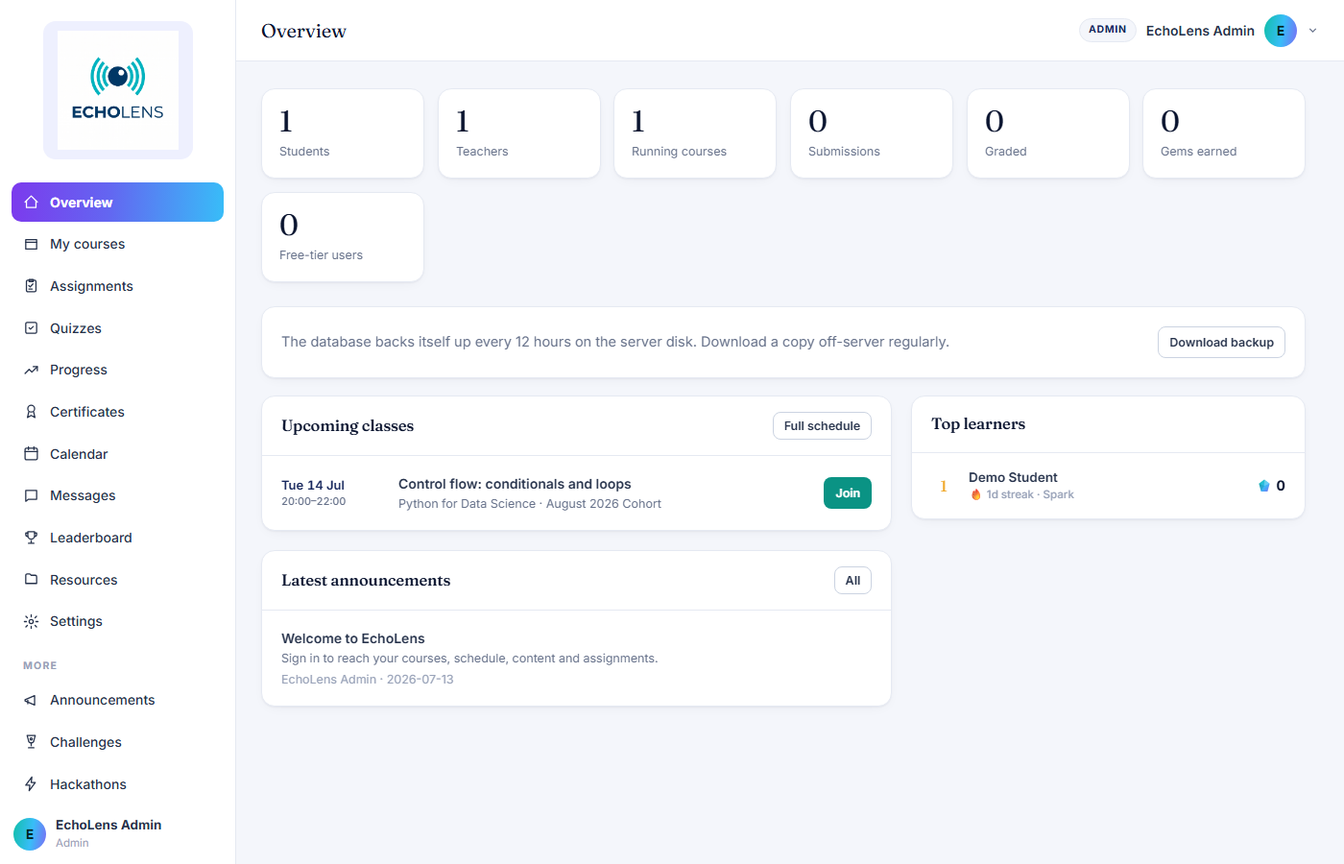
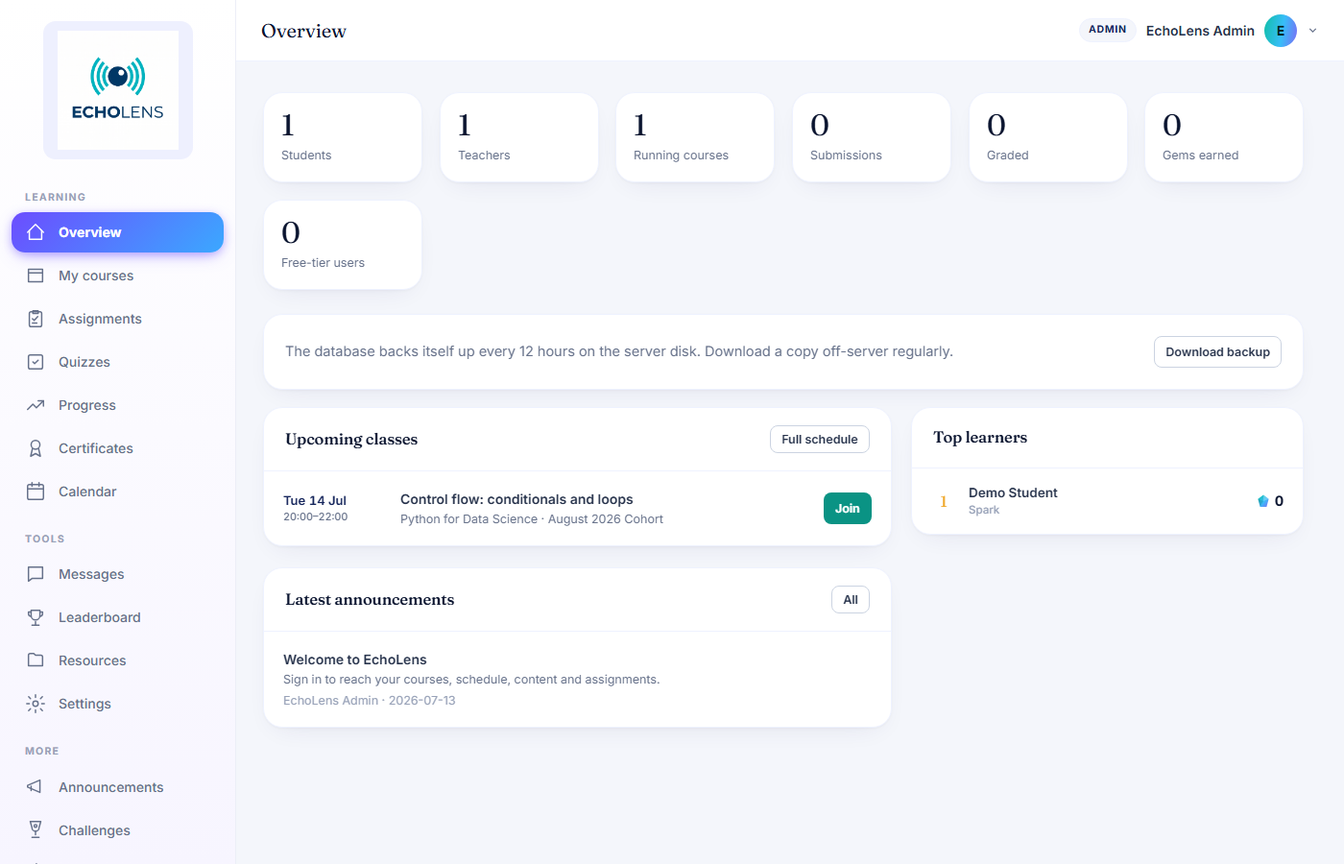
Update LMS with latest changes

diff --git a/public/css/styles.css b/public/css/styles.css
@@ -10,7 +10,7 @@
   --navy:#16265C;
   --canvas:#F4F6FB;         /* app background */
   --card:#FFFFFF;
-  --line:#E5E9F2;
+  --line:#EEF2FF;
   --line-strong:#CBD3E1;
   --text:#26324B;
   --muted:#66718A;
@@ -27,13 +27,14 @@
   --violet-soft:#EEF0FE;    /* soft periwinkle wash */
   --primary:#6D5DF6;        /* purple mixed with light blue (periwinkle) */
   --primary-deep:#5842D6;
-  --primary-grad:linear-gradient(94deg,#7C3AED 0%,#6366F1 46%,#38BDF8 100%);
-  --primary-shadow:99,102,241;  /* rgba tint for primary shadows */
+  --primary-grad:linear-gradient(135deg,#6C4DFF 0%,#3BA8FF 100%);
+  --primary-shadow:108,77,255;  /* rgba tint for primary shadows */
   --gold:#F0A82A;
   --danger:#D9534F;
   --ok:#1FA36B;
 
   --gem-grad:linear-gradient(100deg,#0FBFA8 0%,#38BDF8 55%,#7C6CF5 100%);
+  --stage-grad:linear-gradient(90deg,#20D3FF 0%,#6C4DFF 100%);   /* v14: stage/progress bars */
 
   /* stage colors */
   --st-spark:#F59E0B; --st-glow:#14B8A6; --st-beam:#38BDF8;
@@ -43,9 +44,11 @@
   --font-body:'Inter',system-ui,sans-serif;
   --font-mono:ui-monospace,'SF Mono',Menlo,Consolas,monospace;
 
-  --radius:14px;
+  --radius:20px;
   --shadow-sm:0 1px 2px rgba(13,27,62,.05),0 4px 14px -6px rgba(13,27,62,.08);
   --shadow-md:0 6px 24px -8px rgba(13,27,62,.16);
+  --shadow-card:0 1px 3px rgba(23,26,50,.04),0 10px 28px -14px rgba(46,42,110,.12);
+  --shadow-card-hover:0 4px 10px rgba(23,26,50,.05),0 18px 40px -16px rgba(46,42,110,.20);
 }
 
 *{box-sizing:border-box;margin:0;padding:0}
@@ -104,18 +107,19 @@ img{max-width:100%}
 
 /* ------------------------------ app shell ------------------------------ */
 .app{display:grid;grid-template-columns:246px 1fr;min-height:100vh}
-.sidebar{background:var(--card);color:var(--text);display:flex;flex-direction:column;position:sticky;top:0;height:100vh;border-right:1px solid var(--line)}
+.sidebar{background:linear-gradient(180deg,#FFFFFF 0%,#F7F5FF 100%);color:var(--text);display:flex;flex-direction:column;position:sticky;top:0;height:100vh;border-right:1px solid #ECEEF7}
 .sidebar .brand{display:flex;justify-content:center;padding:22px 16px 18px}
 .logo-pill{background:var(--violet-soft);border-radius:13px;padding:10px 15px;display:inline-flex;box-shadow:none}
 .logo-pill img{width:126px;display:block}
-.sidebar nav{flex:1;padding:6px 12px;overflow-y:auto}
-.nav-group{font-size:10.5px;font-weight:700;letter-spacing:.12em;text-transform:uppercase;color:var(--muted-2);padding:16px 12px 6px}
-a.nav-item{display:flex;align-items:center;gap:11px;color:var(--text);padding:10px 12px;border-radius:10px;font-size:14px;font-weight:500;cursor:pointer;margin-bottom:2px;transition:.15s}
-a.nav-item:hover{background:var(--violet-soft);color:var(--ink)}
-a.nav-item.active{background:var(--primary-grad);color:#fff;font-weight:650}
+.sidebar nav{flex:1;padding:6px 12px 18px;overflow-y:auto}
+.nav-group{font-size:10.5px;font-weight:700;letter-spacing:.12em;text-transform:uppercase;color:var(--muted-2);padding:18px 14px 7px}
+.nav-group:first-child{padding-top:8px}
+a.nav-item{display:flex;align-items:center;gap:13px;color:var(--muted);padding:10px 14px;border-radius:10px;font-size:14px;font-weight:500;cursor:pointer;margin-bottom:3px;transition:background .18s ease,color .18s ease,box-shadow .18s ease}
+a.nav-item:hover{background:var(--violet-soft);color:var(--primary-deep)}
+a.nav-item.active{background:var(--primary-grad);color:#fff;font-weight:650;border-radius:14px;
+  box-shadow:0 6px 18px -6px rgba(108,77,255,.55),0 2px 8px rgba(108,77,255,.28)}
 a.nav-item.active .ic{stroke:#fff}
-.nav-item .ic{width:17px;height:17px;flex:none;stroke:currentColor;fill:none;stroke-width:1.8;stroke-linecap:round;stroke-linejoin:round}
-.side-foot{padding:14px;border-top:1px solid var(--line);font-size:12px;color:var(--muted-2)}
+.nav-item .ic{width:22px;height:22px;flex:none;stroke:currentColor;fill:none;stroke-width:1.6;stroke-linecap:round;stroke-linejoin:round}
 
 .main{display:flex;flex-direction:column;min-width:0}
 .topbar{height:64px;background:#fff;border-bottom:1px solid var(--line);display:flex;align-items:center;justify-content:space-between;padding:0 26px;position:sticky;top:0;z-index:20}
@@ -124,21 +128,26 @@ a.nav-item.active .ic{stroke:#fff}
 .avatar{width:34px;height:34px;border-radius:50%;background:var(--gem-grad);color:#04231F;display:flex;align-items:center;justify-content:center;font-weight:700;font-size:14px}
 .role-pill{font-size:10.5px;font-weight:700;letter-spacing:.07em;text-transform:uppercase;color:var(--navy);background:var(--canvas);border:1px solid var(--line);padding:3px 9px;border-radius:999px}
 .menu-toggle{display:none;border:1px solid var(--line-strong);background:#fff;border-radius:9px;padding:7px 11px;cursor:pointer;font-weight:600;font-size:13px}
-.content{padding:28px 26px 60px;max-width:1140px;width:100%}
+.content{padding:32px 28px 60px;max-width:1140px;width:100%}
 .view{display:none}
 .view.active{display:block;animation:rise .25s ease}
 @keyframes rise{from{opacity:0;transform:translateY(6px)}to{opacity:1;transform:none}}
 
 /* -------------------------------- cards -------------------------------- */
-.card{background:var(--card);border:1px solid var(--line);border-radius:var(--radius);box-shadow:var(--shadow-sm);margin-bottom:20px;overflow:hidden}
-.card-head{padding:16px 20px;border-bottom:1px solid var(--line);display:flex;align-items:center;justify-content:space-between;gap:12px}
+.card{background:var(--card);border:1px solid var(--line);border-radius:var(--radius);box-shadow:var(--shadow-card);margin-bottom:22px;overflow:hidden;transition:transform .2s ease,box-shadow .2s ease}
+.card:hover{transform:translateY(-2px);box-shadow:var(--shadow-card-hover)}
+.card-head{padding:18px 22px;border-bottom:1px solid var(--line);display:flex;align-items:center;justify-content:space-between;gap:12px}
 .card-head h3{font-size:16.5px}
-.card-body{padding:20px}
+.card-body{padding:22px}
 .card-body.tight{padding:4px 0}
 .empty{padding:26px 20px;color:var(--muted);font-size:13.5px;text-align:center}
+.empty-illustration{width:100%;padding:30px 20px;text-align:center}
+.empty-illustration svg{margin:0 auto}
+.empty-illustration .empty-title{font-weight:650;color:var(--ink);margin-top:12px;font-size:14px}
+.empty-illustration .empty-sub{color:var(--muted);font-size:12.5px;margin-top:4px}
 
-.stat-grid{display:grid;grid-template-columns:repeat(auto-fit,minmax(160px,1fr));gap:14px;margin-bottom:24px}
-.stat-card{background:#fff;border:1px solid var(--line);border-radius:var(--radius);padding:18px;box-shadow:var(--shadow-sm)}
+.stat-grid{display:grid;grid-template-columns:repeat(auto-fit,minmax(160px,1fr));gap:18px;margin-bottom:24px}
+.stat-card{background:#fff;border:1px solid var(--line);border-radius:var(--radius);padding:18px;box-shadow:var(--shadow-card);transition:transform .2s ease,box-shadow .2s ease}
 .stat-card .n{font-family:var(--font-display);font-size:31px;color:var(--ink);line-height:1;font-variant-numeric:tabular-nums}
 .stat-card .l{font-size:12.5px;color:var(--muted);margin-top:6px}
 
@@ -167,22 +176,24 @@ table.tbl{width:100%;border-collapse:collapse;font-size:13.5px}
 .stage-prism{background:var(--st-prism)}.stage-aurora{background:var(--st-aurora)}.stage-nova{background:var(--st-nova)}
 
 /* signature: the Progress Prism */
-.prism-card{position:relative;border-radius:18px;overflow:hidden;color:#EAF2FF;margin-bottom:24px;
+.prism-card{position:relative;border-radius:20px;overflow:hidden;color:#EAF2FF;margin-bottom:22px;
   background:radial-gradient(700px 300px at 85% -30%,rgba(124,108,245,.35),transparent 60%),
              radial-gradient(500px 260px at -10% 120%,rgba(15,191,168,.3),transparent 55%),
              linear-gradient(120deg,var(--ink) 0%,var(--ink-2) 100%);
   box-shadow:var(--shadow-md)}
 .prism-card::after{content:'';position:absolute;inset:auto 0 0 0;height:3px;background:var(--gem-grad)}
 .prism-inner{display:flex;align-items:center;gap:24px;padding:26px 28px;flex-wrap:wrap}
-.prism-gem{width:84px;height:84px;flex:none;filter:drop-shadow(0 10px 24px rgba(15,191,168,.35))}
+.prism-gem{width:84px;height:84px;flex:none;
+  filter:drop-shadow(0 0 22px rgba(32,211,255,.45)) drop-shadow(0 0 42px rgba(108,77,255,.4)) drop-shadow(0 10px 20px rgba(0,0,0,.25))}
 .prism-main{flex:1;min-width:220px}
 .prism-eyebrow{font-size:11px;font-weight:700;letter-spacing:.14em;text-transform:uppercase;color:#8FA3CC}
 .prism-stage{font-family:var(--font-display);font-size:30px;color:#fff;line-height:1.15;margin:2px 0 4px}
 .prism-sub{font-size:13px;color:#AAB9DB}
 .prism-bar{height:9px;border-radius:999px;background:rgba(255,255,255,.12);margin-top:14px;overflow:hidden}
-.prism-fill{height:100%;border-radius:999px;background:var(--gem-grad);width:0;transition:width .9s cubic-bezier(.2,.7,.2,1)}
+.prism-fill{height:100%;border-radius:999px;background:var(--stage-grad);width:0;transition:width 1.1s cubic-bezier(.2,.7,.2,1)}
 .prism-side{display:flex;gap:14px;flex-wrap:wrap}
-.prism-stat{background:rgba(255,255,255,.07);border:1px solid rgba(255,255,255,.1);border-radius:13px;padding:12px 16px;min-width:96px;text-align:center}
+.prism-stat{background:rgba(255,255,255,.1);border:1px solid rgba(255,255,255,.16);border-radius:14px;padding:12px 16px;min-width:96px;text-align:center;
+  backdrop-filter:blur(10px) saturate(140%);-webkit-backdrop-filter:blur(10px) saturate(140%);box-shadow:inset 0 1px 0 rgba(255,255,255,.12)}
 .prism-stat .n{font-family:var(--font-display);font-size:23px;color:#fff;font-variant-numeric:tabular-nums}
 .prism-stat .l{font-size:11px;color:#94A7CE;letter-spacing:.06em;text-transform:uppercase;margin-top:2px}
 
@@ -214,9 +225,9 @@ table.tbl{width:100%;border-collapse:collapse;font-size:13.5px}
 .lb-name small{display:block;font-weight:500;color:var(--muted-2);font-size:11.5px}
 
 /* ------------------------------ course cards ------------------------------ */
-.course-grid{display:grid;grid-template-columns:repeat(auto-fill,minmax(272px,1fr));gap:16px}
-.course-card{background:#fff;border:1px solid var(--line);border-radius:var(--radius);padding:0;overflow:hidden;cursor:pointer;transition:.18s;box-shadow:var(--shadow-sm)}
-.course-card:hover{transform:translateY(-3px);box-shadow:var(--shadow-md);border-color:var(--line-strong)}
+.course-grid{display:grid;grid-template-columns:repeat(auto-fill,minmax(272px,1fr));gap:20px}
+.course-card{background:#fff;border:1px solid var(--line);border-radius:var(--radius);padding:0;overflow:hidden;cursor:pointer;transition:transform .2s ease,box-shadow .2s ease;box-shadow:var(--shadow-card)}
+.course-card:hover{transform:translateY(-2px);box-shadow:var(--shadow-card-hover);border-color:var(--line-strong)}
 .course-band{height:5px;background:var(--gem-grad)}
 .course-card .cc-body{padding:17px 18px}
 .course-card h4{font-size:16px;margin:5px 0 3px}
@@ -300,7 +311,7 @@ table.tbl{width:100%;border-collapse:collapse;font-size:13.5px}
 .card,.stat-card,.course-card,.prism-card{transform-style:preserve-3d;will-change:transform}
 .tilt{transition:transform .18s ease,box-shadow .18s ease}
 .tilt:hover{box-shadow:0 22px 44px -18px rgba(13,27,62,.28)}
-.stat-card:hover{transform:translateY(-3px) translateZ(8px)}
+.stat-card:hover{transform:translateY(-2px) translateZ(8px);box-shadow:var(--shadow-card-hover)}
 @keyframes gemSpin3d{0%{transform:rotateY(0) rotateZ(45deg)}100%{transform:rotateY(360deg) rotateZ(45deg)}}
 
 /* --- quest hero: track title banner --- */
@@ -748,8 +759,13 @@ input[type=file]::file-selector-button:hover{background:var(--canvas)}
 .filt-pill.active{border-color:var(--primary);color:var(--primary);background:var(--violet-soft)}
 .search-box{position:relative;flex:1;min-width:200px}
 .search-box svg{position:absolute;left:13px;top:50%;transform:translateY(-50%);width:15px;height:15px;color:var(--muted-2);pointer-events:none}
-.search-box input{width:100%;padding:9px 14px 9px 36px;border:1.5px solid var(--line);border-radius:10px;font:500 13.5px var(--font-body);background:#fff}
+.search-box input{width:100%;padding:9px 14px 9px 36px;border:1.5px solid var(--line);border-radius:10px;font:500 13.5px var(--font-body);background:#fff;transition:border-color .18s ease,box-shadow .18s ease}
 .search-box input:focus{outline:none;border-color:var(--primary)}
+/* v14: topbar quick-search gets the premium 46px/14px treatment specifically -
+   other filter bars sitewide keep their compact size. */
+#topSearchWrap input{height:46px;border-radius:14px;padding-left:40px;font-size:14px}
+#topSearchWrap svg{left:15px;width:16px;height:16px}
+#topSearchWrap input:focus{border-color:var(--primary);box-shadow:0 0 0 4px rgba(108,77,255,.13)}
 
 /* --- open-site course cards (icon art, tier, price, enrol) --- */
 .oc-grid{display:grid;grid-template-columns:repeat(auto-fill,minmax(232px,1fr));gap:16px}
@@ -1218,21 +1234,13 @@ input[type=file]::file-selector-button:hover{background:var(--canvas)}
 .cl-eyebrow{font-size:11px;font-weight:700;letter-spacing:.08em;text-transform:uppercase;color:var(--primary)}
 .cl-title{font-family:var(--font-display);font-size:19px;color:var(--ink);margin:2px 0 8px}
 .cl-bar{height:8px;border-radius:999px;background:var(--canvas);overflow:hidden}
-.cl-fill{height:100%;border-radius:999px;background:var(--primary-grad);width:0;transition:width .9s cubic-bezier(.2,.7,.2,1)}
+.cl-fill{height:100%;border-radius:999px;background:var(--stage-grad);width:0;transition:width 1s cubic-bezier(.2,.7,.2,1)}
 .cl-pct{font-size:12px;color:var(--muted);margin-top:6px}
 .cl-next{background:var(--canvas);border-radius:13px;padding:12px 16px;min-width:170px}
 .cl-next .l{font-size:11px;color:var(--muted-2);text-transform:uppercase;letter-spacing:.05em;margin-bottom:3px}
 .cl-next .t{font-size:13.5px;font-weight:600;color:var(--text);margin-bottom:8px}
 
 .list-row .mini-bar{height:5px;border-radius:999px;background:var(--line);overflow:hidden;margin-top:6px;width:100%}
-.list-row .mini-fill{height:100%;border-radius:999px;background:var(--primary-grad)}
+.list-row .mini-fill{height:100%;border-radius:999px;background:var(--stage-grad);width:0;transition:width 1s cubic-bezier(.2,.7,.2,1)}
 
-.promo-card{background:var(--violet-soft);border:1px solid var(--line);border-radius:14px;padding:16px;margin:10px 12px;text-align:center}
-.promo-card .pc-icon{width:38px;height:38px;margin:0 auto 8px}
-.promo-card h4{font-size:14px;color:var(--ink);margin-bottom:4px}
-.promo-card p{font-size:12px;color:var(--muted);margin-bottom:12px;line-height:1.45}
-
-.side-user{display:flex;align-items:center;gap:10px;padding:12px 14px}
-.side-user .n{font-size:13.5px;font-weight:650;color:var(--text)}
-.side-user .r{font-size:11.5px;color:var(--muted-2)}
 .disc-body{font-size:13.5px;color:var(--text);line-height:1.55;white-space:pre-wrap;word-break:break-word}

diff --git a/public/js/dashboard.js b/public/js/dashboard.js
@@ -114,12 +114,7 @@ async function logout() { try { await api('/api/auth/logout', { method: 'POST' }
   } catch { return; }
   $('userName').textContent = ME.name;
   $('rolePill').textContent = roleLabel(ME.role);
-  $('sideUserName').textContent = ME.name;
-  $('sideUserRole').textContent = roleLabel(ME.role);
   drawAvatar();
-  const sideAv = $('sideAvatar');
-  if (ME.avatar) sideAv.innerHTML = `<img src="${esc(ME.avatar)}" alt="">`;
-  else sideAv.textContent = (ME.name || 'E').trim()[0].toUpperCase();
   if (ME.role === 'admin') document.querySelectorAll('.admin-only').forEach((el) => (el.style.display = ''));
   if (['admin', 'coordinator'].includes(ME.role)) document.querySelectorAll('.staff-only').forEach((el) => (el.style.display = ''));
   if (ME.ai_enabled) document.querySelectorAll('.teacher-only').forEach((el) => (el.style.display = ''));
@@ -262,7 +257,7 @@ async function renderOverview() {
     <div style="display:grid;grid-template-columns:1.6fr 1fr;gap:20px;align-items:start" class="ovr-grid">
       <div>
         <div class="card"><div class="card-head"><h3>Upcoming classes</h3><button class="btn btn-ghost btn-sm" onclick="show('schedule')">Full schedule</button></div>
-          <div class="card-body tight">${d.upcoming.length ? d.upcoming.map(sessionRow).join('') : '<div class="empty">No upcoming classes scheduled yet.</div>'}</div></div>
+          <div class="card-body tight">${d.upcoming.length ? d.upcoming.map(sessionRow).join('') : emptyScheduleHTML()}</div></div>
         <div class="card"><div class="card-head"><h3>Latest announcements</h3><button class="btn btn-ghost btn-sm" onclick="show('announcements')">All</button></div>
           <div class="card-body tight">${d.announcements.length ? d.announcements.map(annRow).join('') : '<div class="empty">Nothing yet.</div>'}</div></div>
       </div>
@@ -273,6 +268,21 @@ async function renderOverview() {
     </div>
     <style>@media (max-width:900px){.ovr-grid{grid-template-columns:1fr !important}}</style>`;
   requestAnimationFrame(() => { const f = el.querySelector('.prism-fill'); if (f) f.style.width = f.dataset.w + '%'; });
+}
+
+/* v14: a friendly illustration for empty schedule areas, instead of a bare line of text. */
+function emptyScheduleHTML(sub) {
+  return `<div class="empty-illustration">
+    <svg width="72" height="72" viewBox="0 0 72 72" aria-hidden="true">
+      <circle cx="36" cy="36" r="36" fill="var(--violet-soft)"/>
+      <rect x="20" y="24" width="32" height="28" rx="4" fill="none" stroke="var(--primary)" stroke-width="2.2"/>
+      <path d="M20 32h32" stroke="var(--primary)" stroke-width="2.2"/>
+      <path d="M27 20v8M45 20v8" stroke="var(--primary)" stroke-width="2.2" stroke-linecap="round"/>
+      <path d="M29 40l5 5 9-9" fill="none" stroke="var(--primary)" stroke-width="2.2" stroke-linecap="round" stroke-linejoin="round"/>
+    </svg>
+    <div class="empty-title">No upcoming activities</div>
+    <div class="empty-sub">${esc(sub || "You're all caught up - check back soon.")}</div>
+  </div>`;
 }
 
 /* -------------------------- student overview (v13) -------------------------- */
@@ -311,7 +321,7 @@ async function renderStudentOverview(el, d) {
           <div class="cl-main">
             <div class="cl-eyebrow">Continue learning</div>
             <div class="cl-title">${esc(cont.title || cont.name)}</div>
-            <div class="cl-bar"><div class="cl-fill" style="width:${cont.progress_pct}%"></div></div>
+            <div class="cl-bar"><div class="cl-fill" data-w="${cont.progress_pct}"></div></div>
             <div class="cl-pct">${cont.progress_pct}% complete</div>
           </div>
           <div class="cl-next">
@@ -329,7 +339,7 @@ async function renderStudentOverview(el, d) {
                 <div class="t" style="font-weight:600;margin:4px 0">${esc(it.title)}</div>
                 <div class="s" style="color:var(--muted)">${esc(it.sub)}</div>
                 <div class="s" style="color:var(--muted-2);margin-top:6px">${fmtDate(it.date)}</div>
-              </div>`).join('') : '<div class="empty">Nothing scheduled right now.</div>'}
+              </div>`).join('') : emptyScheduleHTML('No classes, quizzes, or assignments due soon.')}
           </div></div>
 
         <div class="card"><div class="card-head"><h3>My courses</h3><button class="btn btn-ghost btn-sm" onclick="show('courses')">View all</button></div>
@@ -338,7 +348,7 @@ async function renderStudentOverview(el, d) {
               <div class="grow">
                 <div class="t">${esc(c.title || c.name)}</div>
                 <div class="s" style="color:var(--muted)">${c.lesson_count} lesson${c.lesson_count === 1 ? '' : 's'}</div>
-                <div class="mini-bar"><div class="mini-fill" style="width:${c.progress_pct}%"></div></div>
+                <div class="mini-bar"><div class="mini-fill" data-w="${c.progress_pct}"></div></div>
               </div>
               <div style="font-weight:700;color:var(--ink);min-width:36px;text-align:right">${c.progress_pct}%</div>
               <button class="btn btn-ghost btn-sm" onclick="openCourse(${c.id})">Continue</button>
@@ -383,7 +393,7 @@ async function renderStudentOverview(el, d) {
       </div>
     </div>
     <style>@media (max-width:900px){.ovr-grid{grid-template-columns:1fr !important}}</style>`;
-  requestAnimationFrame(() => { const f = el.querySelector('.prism-fill'); if (f) f.style.width = f.dataset.w + '%'; });
+  requestAnimationFrame(() => { el.querySelectorAll('.prism-fill,.mini-fill,.cl-fill').forEach((f) => (f.style.width = f.dataset.w + '%')); });
   if (featured && featured.due_date) startDailyChallengeCountdown(featured.due_date);
 }
 function startDailyChallengeCountdown(dueDate) {
@@ -834,7 +844,7 @@ async function renderSchedule() {
   el.innerHTML = '<div class="empty">Loading&hellip;</div>';
   const d = await api('/api/overview');
   el.innerHTML = `<div class="card"><div class="card-head"><h3>Upcoming classes</h3></div>
-    <div class="card-body tight">${d.upcoming.length ? d.upcoming.map(sessionRow).join('') : '<div class="empty">No upcoming classes. Enjoy the calm.</div>'}</div></div>`;
+    <div class="card-body tight">${d.upcoming.length ? d.upcoming.map(sessionRow).join('') : emptyScheduleHTML()}</div></div>`;
 }
 
 /* ============================= LEADERBOARD ============================= */
@@ -1015,7 +1025,7 @@ async function renderProgress() {
       <div class="grow">
         <div class="t">${esc(c.title || c.name)}</div>
         <div class="s">${c.next_level ? `Next: Level ${c.next_level.no} &middot; ${esc(c.next_level.title)}` : (c.progress_pct >= 100 ? 'Track completed' : 'Not started yet')}</div>
-        <div class="mini-bar"><div class="mini-fill" style="width:${c.progress_pct}%"></div></div>
+        <div class="mini-bar"><div class="mini-fill" data-w="${c.progress_pct}"></div></div>
       </div>
       <div style="font-weight:700;color:var(--ink);min-width:40px;text-align:right">${c.progress_pct}%</div>
     </div>`).join('') || '<div class="empty">Enroll in a course to start tracking progress.</div>';
@@ -1027,7 +1037,7 @@ async function renderProgress() {
     ${journeyRail(g)}
     <div class="card"><div class="card-head"><h3>Progress by course</h3></div><div class="card-body tight">${perCourse}</div></div>
     ${badgesCard(g)}`;
-  requestAnimationFrame(() => { el.querySelectorAll('.prism-fill').forEach((f) => (f.style.width = f.dataset.w + '%')); });
+  requestAnimationFrame(() => { el.querySelectorAll('.prism-fill,.mini-fill,.cl-fill').forEach((f) => (f.style.width = f.dataset.w + '%')); });
 }
 function openProfileForm() {
   const p = ME.profile || {};

diff --git a/public/dashboard.html b/public/dashboard.html
@@ -8,7 +8,7 @@
 <link rel="preconnect" href="https://fonts.googleapis.com">
 <link rel="preconnect" href="https://fonts.gstatic.com" crossorigin>
 <link href="https://fonts.googleapis.com/css2?family=Fraunces:opsz,wght@9..144,400..650&family=Inter:wght@400;500;600;700&display=swap" rel="stylesheet">
-<link rel="stylesheet" href="/css/styles.css?v1232">
+<link rel="stylesheet" href="/css/styles.css?v1233">
 </head>
 <body>
 
@@ -18,6 +18,7 @@
   <aside class="sidebar" id="sidebar">
     <div class="brand"><span class="logo-pill"><img src="/img/logo.png" alt="EchoLens"></span></div>
     <nav id="nav">
+      <div class="nav-group">Learning</div>
       <a class="nav-item active" data-view="overview"><svg class="ic" viewBox="0 0 24 24"><path d="M3 12l9-9 9 9"/><path d="M5 10v10h14V10"/></svg>Overview</a>
       <a class="nav-item" data-view="courses"><svg class="ic" viewBox="0 0 24 24"><path d="M4 5h16v14H4z"/><path d="M4 9h16"/></svg>My courses</a>
       <a class="nav-item" data-view="assignments"><svg class="ic" viewBox="0 0 24 24"><rect x="5" y="4" width="14" height="17" rx="2"/><path d="M9 3h6v3H9z"/><path d="M8.5 12l2 2 4-4.5M8.5 17h5"/></svg>Assignments</a>
@@ -25,6 +26,7 @@
       <a class="nav-item" data-view="progress"><svg class="ic" viewBox="0 0 24 24"><path d="M3 17l6-6 4 4 8-8"/><path d="M15 7h6v6"/></svg>Progress</a>
       <a class="nav-item" data-view="certificates"><svg class="ic" viewBox="0 0 24 24"><circle cx="12" cy="8" r="5"/><path d="M8.5 12.5L6.5 21l5.5-3 5.5 3-2-8.5"/></svg>Certificates</a>
       <a class="nav-item" data-view="schedule"><svg class="ic" viewBox="0 0 24 24"><rect x="3" y="4" width="18" height="17" rx="2"/><path d="M3 9h18M8 2v4M16 2v4"/></svg>Calendar</a>
+      <div class="nav-group">Tools</div>
       <a class="nav-item" data-view="messages"><svg class="ic" viewBox="0 0 24 24"><path d="M4 4h16v13H8l-4 3V4z"/></svg>Messages<span class="bell-badge" id="navMsgBadge" style="display:none;position:static;margin-left:auto"></span></a>
       <a class="nav-item" data-view="leaderboard"><svg class="ic" viewBox="0 0 24 24"><path d="M8 21h8M12 17v4"/><path d="M7 4h10v6a5 5 0 0 1-10 0z"/><path d="M7 6H4v2a3 3 0 0 0 3 3M17 6h3v2a3 3 0 0 1-3 3"/></svg>Leaderboard</a>
       <a class="nav-item" data-view="resources"><svg class="ic" viewBox="0 0 24 24"><path d="M4 6a2 2 0 0 1 2-2h4l2 2h6a2 2 0 0 1 2 2v10H4z"/></svg>Resources</a>
@@ -40,19 +42,6 @@
       <a class="nav-item staff-only" data-view="admin-users" style="display:none"><svg class="ic" viewBox="0 0 24 24"><circle cx="9" cy="8" r="3.5"/><path d="M2.5 20c0-3.5 3-5.5 6.5-5.5s6.5 2 6.5 5.5"/><circle cx="17.5" cy="9" r="2.6"/><path d="M15.5 14.8c3 0 6 1.7 6 5.2"/></svg>People</a>
       <a class="nav-item staff-only" data-view="admin-analytics" style="display:none"><svg class="ic" viewBox="0 0 24 24"><path d="M4 20V10M10 20V4M16 20v-8M22 20H2"/></svg>Analytics &amp; Leads</a>
     </nav>
-    <div class="promo-card student-only" id="promoCard" style="display:none">
-      <svg class="pc-icon" viewBox="0 0 100 100" aria-hidden="true"><defs><linearGradient id="pcGrad" x1="0" y1="0" x2="1" y2="1"><stop offset="0" stop-color="#7C3AED"/><stop offset="1" stop-color="#38BDF8"/></linearGradient></defs><polygon points="50,4 90,34 74,92 26,92 10,34" fill="url(#pcGrad)"/></svg>
-      <h4>Upgrade to Pro</h4>
-      <p>Unlock advanced features and exclusive learning content.</p>
-      <a class="btn btn-primary btn-sm btn-block" href="mailto:info@echolens.digital">Upgrade now</a>
-    </div>
-    <div class="side-user">
-      <div class="avatar" id="sideAvatar">E</div>
-      <div style="min-width:0">
-        <div class="n" id="sideUserName">&mdash;</div>
-        <div class="r" id="sideUserRole">Student</div>
-      </div>
-    </div>
   </aside>
 
   <div class="main">
@@ -60,7 +49,7 @@
       <div style="display:flex;align-items:center;gap:14px;flex:1;min-width:0">
         <button class="menu-toggle" onclick="document.getElementById('sidebar').classList.toggle('open')">Menu</button>
         <span class="page-title" id="pageTitle">Overview</span>
-        <div class="search-box student-only" style="max-width:340px;position:relative;display:none" id="topSearchWrap">
+        <div class="search-box student-only" style="max-width:400px;position:relative;display:none" id="topSearchWrap">
           <svg viewBox="0 0 24 24" stroke="currentColor" fill="none" stroke-width="2"><circle cx="11" cy="11" r="7"/><path d="M21 21l-4.3-4.3"/></svg>
           <input id="topSearch" placeholder="Search for courses, lessons, quizzes...">
           <span class="kbd-hint">Ctrl+K</span>
@@ -125,10 +114,10 @@
 </div>
 
 <div class="toast" id="toast"></div>
-<script src="/js/coderunner.js?v1232"></script>
-<script src="/js/dashboard.js?v1232"></script>
+<script src="/js/coderunner.js?v1233"></script>
+<script src="/js/dashboard.js?v1233"></script>
 <script src="https://cdnjs.cloudflare.com/ajax/libs/three.js/r128/three.min.js"></script>
-<script src="/js/gem3d.js?v1232"></script>
-<script src="/js/tilt.js?v1232"></script>
+<script src="/js/gem3d.js?v1233"></script>
+<script src="/js/tilt.js?v1233"></script>
 </body>
 </html>
